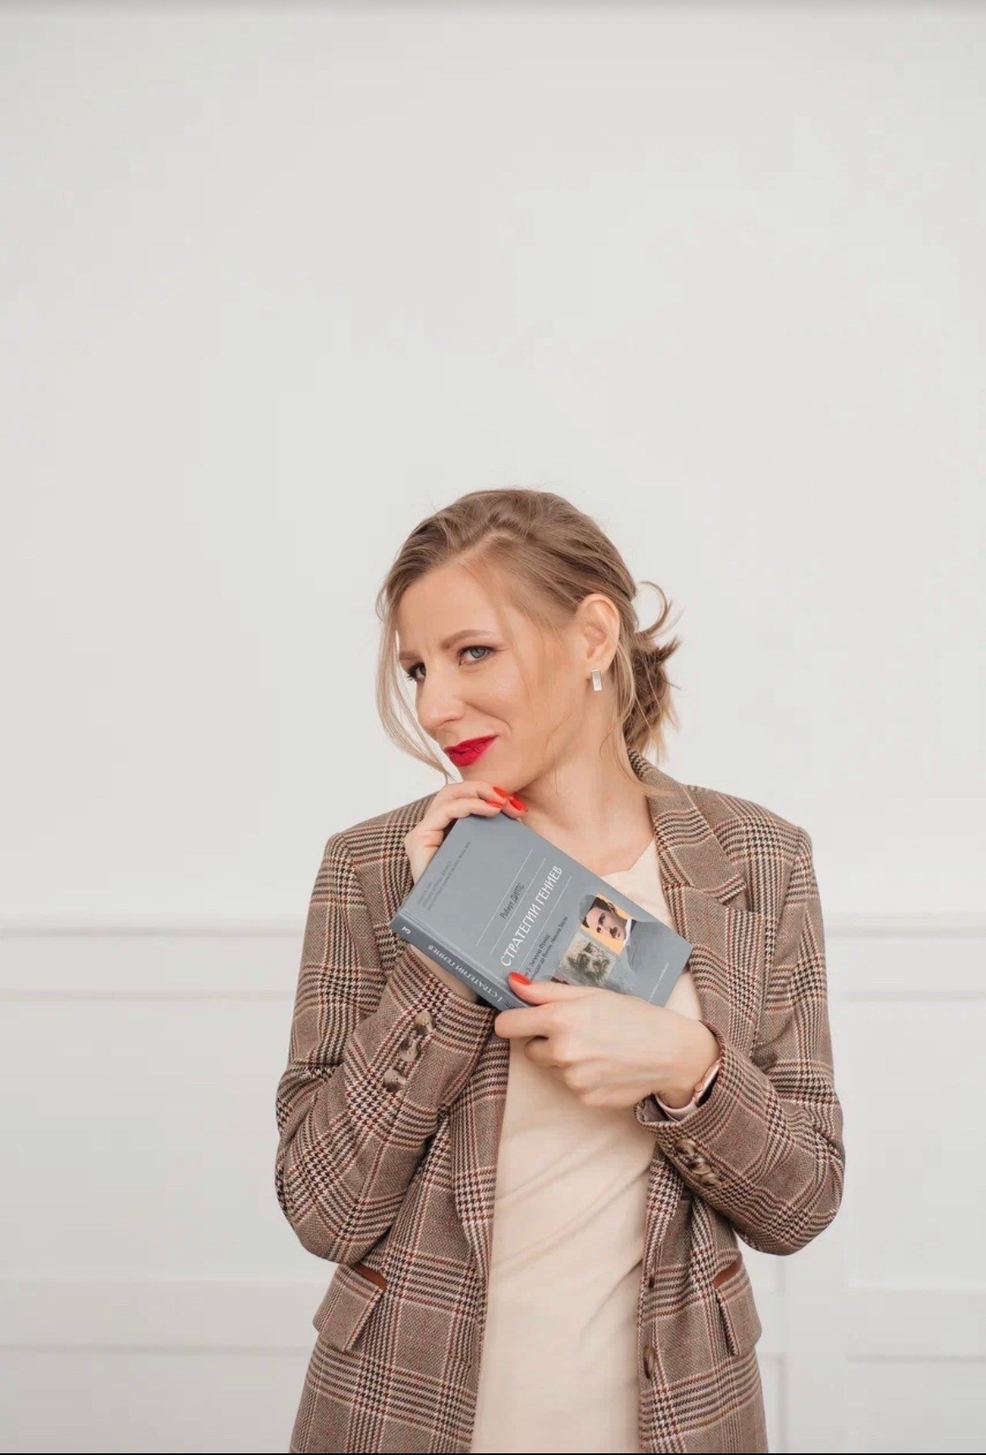
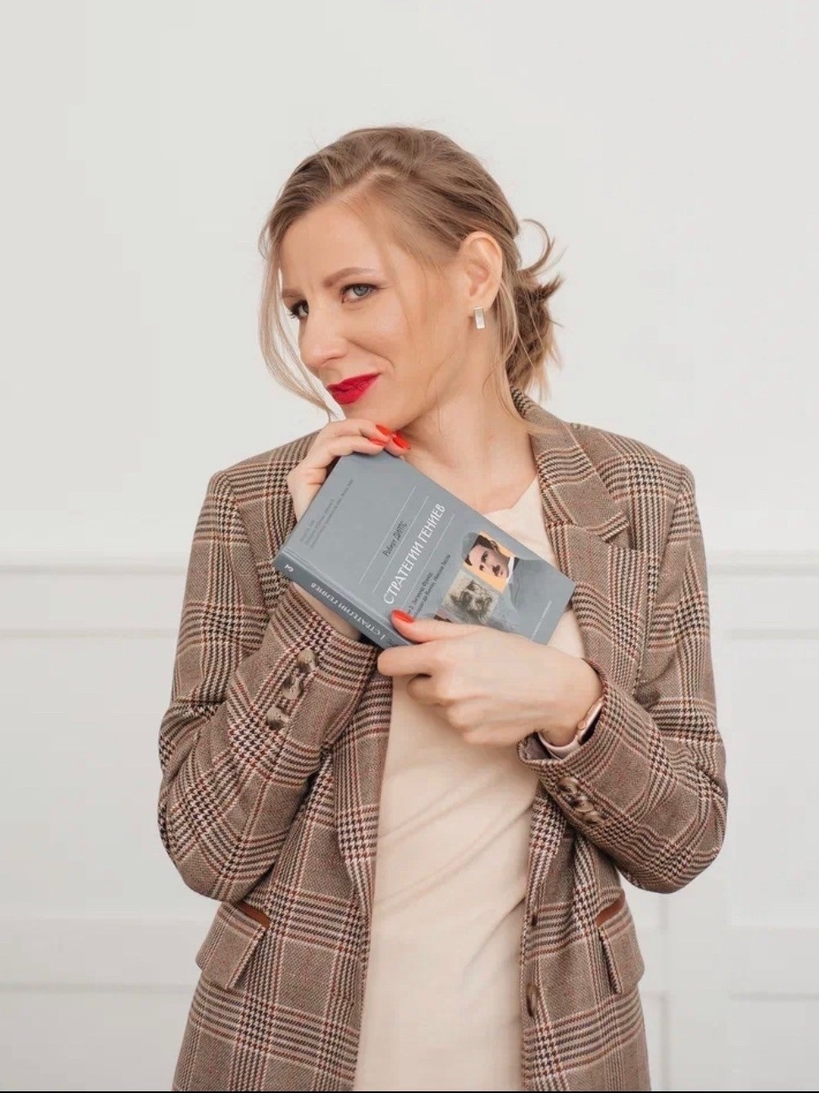
QA: badge inside frame, image sizes, post-build nbsp, hero ghost hidden on mobile, typography and content fixes

diff --git a/src/data/master.ts b/src/data/master.ts
@@ -16,7 +16,7 @@ export const master = {
   whatsapp: 'https://wa.me/79130886788',
   telegram: 'https://t.me/anna_metafora',
   primary: 'https://t.me/anna_metafora',
-  primaryLabel: 'Написать в Telegram',
+  primaryLabel: 'Написать в Telegram',
 } as const;
 
 // неразрывный пробел после коротких слов, чтобы они не висели в конце строки
@@ -35,41 +35,41 @@ function nbDeep<T>(v: T): T {
 
 export const audience = nbDeep([
   {
-    kind: 'Для себя',
+    kind: 'Для себя',
     title: 'Когда хаос, тупик и&nbsp;всё перепробовано',
     items: [
       'чувствуете хаос, запутанность, тупик',
-      'всё перепробовали, а ничего не помогает',
-      'хочется прорыва, особенно в бизнесе или деньгах',
+      'всё перепробовали, а ничего не помогает',
+      'хочется прорыва, особенно в бизнесе или деньгах',
       'хочется лучше понять себя',
     ],
   },
   {
-    kind: 'Для специалистов',
+    kind: 'Для специалистов',
     title: 'Психологам и&nbsp;тем, кто работает с&nbsp;людьми',
     items: [
       'быстро диагностировать корень запроса',
       'расширить инструменты работы',
       'лучше понимать глубинные процессы клиента',
-      'когда кажется, что работа с клиентом идёт по кругу',
+      'когда кажется, что работа с клиентом идёт по кругу',
     ],
   },
   {
-    kind: 'Для предпринимателей',
+    kind: 'Для предпринимателей',
     title: 'Мышление, деньги и&nbsp;клиенты',
     items: [
-      'развивать креативное мышление и находить нестандартные решения',
+      'развивать креативное мышление и находить нестандартные решения',
       'увидеть свои реальные финансовые стратегии',
       'клиентов стало меньше, хотя маркетинг уже пробовали',
-      'проверить бизнес-идеи без риска',
+      'проверить бизнес-идеи без риска',
     ],
   },
   {
-    kind: 'Для родителей',
+    kind: 'Для родителей',
     title: 'Понять внутренний мир ребёнка',
     items: [
       'лучше понимать внутренний мир своих детей',
-      'мягче и точнее взаимодействовать с ребёнком',
+      'мягче и точнее взаимодействовать с ребёнком',
     ],
   },
 ]);
@@ -78,80 +78,80 @@ export const method = nbDeep({
   points: [
     {
       title: 'Разговор держит в&nbsp;той же точке',
-      text: 'Когда мы просто разговариваем, активируется часть мозга, которая отвечает за анализ, контроль и логику. Она помогает объяснять и рационализировать, но часто не даёт пойти глубже. Поэтому можно годами говорить о проблеме и оставаться на месте.',
+      text: 'Когда мы просто разговариваем, активируется часть мозга, которая отвечает за анализ, контроль и логику. Она помогает объяснять и рационализировать, но часто не даёт пойти глубже. Поэтому можно годами говорить о проблеме и оставаться на месте.',
     },
     {
       title: 'Образы включают творчество',
-      text: 'Когда человек работает с образами, символами и метафорами, привычные шаблоны разрываются, а ассоциации выводят на неожиданные и неочевидные ранее решения.',
+      text: 'Когда человек работает с образами, символами и метафорами, привычные шаблоны разрываются, а ассоциации выводят на неожиданные и неочевидные ранее решения.',
     },
     {
       title: 'Диагностика и&nbsp;коррекция сразу',
-      text: 'Работа через метафору на песке открывает доступ к тому, что раньше было неосознанным. Мозг не сопротивляется, он показывает короткий путь.',
+      text: 'Работа через метафору на песке открывает доступ к тому, что раньше было неосознанным. Мозг не сопротивляется, он показывает короткий путь.',
     },
     {
       title: 'Один сеанс вместо месяцев',
-      text: 'За один сеанс песочной терапии можно увидеть то, что в разговоре не проявляется месяцами.',
+      text: 'За один сеанс песочной терапии можно увидеть то, что в разговоре не проявляется месяцами.',
     },
   ],
-  note: 'Это не эзотерика. Это особенности того, как работает наш&nbsp;мозг.',
+  note: 'Это не эзотерика. Это особенности того, как работает наш&nbsp;мозг.',
 });
 
 export const steps = nbDeep([
   {
     n: '01',
     title: 'Напишите',
-    text: 'В Telegram, ВКонтакте или WhatsApp. Коротко опишите, с чем хотите разобраться.',
+    text: 'В Telegram, ВКонтакте или WhatsApp. Коротко опишите, с чем хотите разобраться.',
   },
   {
     n: '02',
-    title: 'Композиция на песке',
-    text: 'Вы строите композицию из песка, а я провожу глубокий анализ ситуации: причин, следствий и того, что сейчас с вами происходит.',
+    title: 'Композиция на песке',
+    text: 'Вы строите композицию из песка, а я провожу глубокий анализ ситуации: причин, следствий и того, что сейчас с вами происходит.',
   },
   {
     n: '03',
     title: 'Решение находите вы',
-    text: 'Композиция показывает корень состояния, который вы не ожидали увидеть. Решение вы находите сами, я помогаю вопросами и заданиями.',
+    text: 'Композиция показывает корень состояния, который вы не ожидали увидеть. Решение вы находите сами, я помогаю вопросами и заданиями.',
   },
 ]);
 
 export const story = nbDeep({
   quote: '«Как ты родилась?»',
-  text: 'Это был последний вопрос, который я ожидала услышать, работая с песком. Мы можем не помнить самые ранние события своей жизни. Но это не значит, что их не помнит наше тело. Оно хранит гораздо больше, чем кажется.',
+  text: 'Это был последний вопрос, который я ожидала услышать, работая с песком. Мы можем не помнить самые ранние события своей жизни. Но это не значит, что их не помнит наше тело. Оно хранит гораздо больше, чем кажется.',
 });
 
 export const bioFacts = [
-  { value: '16 лет', label: 'в профессии' },
-  { value: '1000+', label: 'консультаций' },
+  { value: '16 лет', label: 'в профессии' },
+  { value: '1\u00a0000+', label: 'консультаций' },
   { value: 'РАНХиГС', label: 'старший преподаватель' },
 ];
 
 export const career = nbDeep([
-  { years: 'с 2023', text: 'Старший преподаватель, Алтайский филиал Президентской академии (РАНХиГС)' },
-  { years: 'с 2012', text: 'Руководитель и психолог учебно-психологического центра «Метафора»' },
+  { years: 'с 2023', text: 'Старший преподаватель, Алтайский филиал Президентской академии (РАНХиГС)' },
+  { years: 'с 2012', text: 'Руководитель и психолог учебно-психологического центра «Метафора»' },
   { years: '2010-2014', text: 'Психолог, «Практическая психология»' },
   { years: '2012', text: 'АлтГПУ, магистратура, кафедра психологии образования' },
-  { years: '2010', text: 'АлтГПА, Институт психологии и педагогики, педагогика и психология образования' },
+  { years: '2010', text: 'АлтГПА, Институт психологии и педагогики, педагогика и психология образования' },
 ]);
 
 export const services = nbDeep([
   {
     kind: 'Консультация',
     title: 'Индивидуальная консультация по&nbsp;песочной терапии',
-    duration: 'Барнаул или онлайн',
+    duration: 'Барнаул или онлайн',
     price: '5 000 ₽',
     priceNote: 'одна консультация',
-    pitch: 'Глубокий анализ вашей ситуации через композицию на песке. Подходит, когда хочется прорыва в жизни, бизнесе или деньгах.',
+    pitch: 'Глубокий анализ вашей ситуации через композицию на песке. Подходит, когда хочется прорыва в жизни, бизнесе или деньгах.',
     cta: 'Записаться',
     highlight: true,
   },
   {
     kind: 'Обучение',
     title: 'Песочная и&nbsp;телесно-ориентированная терапия, НЛП',
-    duration: 'курсы для специалистов',
-    price: 'По запросу',
-    priceNote: 'набор групп в сообщениях',
-    pitch: 'Программы для психологов, коучей, начинающих специалистов и всех, кто работает с людьми. Без лишней теории: практика, опыт и реальное погружение.',
-    cta: 'Узнать о курсе',
+    duration: 'курсы для специалистов',
+    price: 'По запросу',
+    priceNote: 'набор групп в сообщениях',
+    pitch: 'Программы для психологов, коучей, начинающих специалистов и всех, кто работает с людьми. Без лишней теории: практика, опыт и реальное погружение.',
+    cta: 'Узнать о курсе',
     highlight: false,
   },
   {
@@ -159,18 +159,18 @@ export const services = nbDeep([
     title: '«Денежный поток олигарха»',
     duration: 'очно, Барнаул',
     price: '4 000 ₽',
-    priceNote: 'участие в игре',
-    pitch: 'Финансовый тренажёр: недвижимость, акции, бизнесы, переговоры. Тестируете стратегии без риска и получаете обратную связь от бизнес-психолога в моменте.',
+    priceNote: 'участие в игре',
+    pitch: 'Финансовый тренажёр: недвижимость, акции, бизнесы, переговоры. Тестируете стратегии без риска и получаете обратную связь от бизнес-психолога в моменте.',
     cta: 'Забронировать место',
     highlight: false,
   },
   {
     kind: 'Практикумы',
     title: 'Онлайн-практикумы и&nbsp;мастер-классы',
-    duration: 'онлайн и очно',
-    price: 'от 1 000 ₽',
-    priceNote: 'бывают и бесплатные',
-    pitch: 'Метафорическое мышление и доход, восприятие количества клиентов, «как читать мысли по глазам» для переговоров и найма.',
+    duration: 'онлайн и очно',
+    price: 'от 1 000 ₽',
+    priceNote: 'бывают и бесплатные',
+    pitch: 'Метафорическое мышление и доход, восприятие количества клиентов, «как читать мысли по глазам» для переговоров и найма.',
     cta: 'Узнать расписание',
     highlight: false,
   },
@@ -179,23 +179,23 @@ export const services = nbDeep([
 export const faq = nbDeep([
   {
     q: 'Это эзотерика?',
-    a: 'Нет. Песочная терапия работает через образы, символы и метафоры. Это особенности того, как работает наш мозг: в песочнице вместо рационализации появляются метафорические аналогии, и становится видно то, что в разговоре не проявляется месяцами.',
+    a: 'Нет. Песочная терапия работает через образы, символы и метафоры. Это особенности того, как работает наш мозг: в песочнице вместо рационализации появляются метафорические аналогии, и становится видно то, что в разговоре не проявляется месяцами.',
   },
   {
     q: 'Сколько стоит консультация?',
-    a: 'Индивидуальная консультация по песочной терапии стоит 5 000 ₽. Участие в игре «Денежный поток олигарха» 4 000 ₽. Стоимость обучения уточняйте в сообщениях.',
+    a: 'Индивидуальная консультация по песочной терапии стоит 5 000 ₽. Участие в игре «Денежный поток олигарха» 4 000 ₽. Стоимость обучения уточняйте в сообщениях.',
   },
   {
-    q: 'Песочная терапия только для детей?',
-    a: 'Нет, метод работает с любым возрастом и запросом. Предприниматели используют его, чтобы находить нестандартные решения в бизнесе, мамы, чтобы лучше понимать своих детей, психологи, чтобы быстро диагностировать корень запроса.',
+    q: 'Песочная терапия только для детей?',
+    a: 'Нет, метод работает с любым возрастом и запросом. Предприниматели используют его, чтобы находить нестандартные решения в бизнесе, мамы, чтобы лучше понимать своих детей, психологи, чтобы быстро диагностировать корень запроса.',
   },
   {
-    q: 'Нужна ли подготовка для практикумов?',
-    a: 'Нет, специальная подготовка не нужна. Онлайн-практикумы проходят из дома, с практическим упражнением и возможностью задать вопросы.',
+    q: 'Нужна ли подготовка для практикумов?',
+    a: 'Нет, специальная подготовка не нужна. Онлайн-практикумы проходят из дома, с практическим упражнением и возможностью задать вопросы.',
   },
   {
     q: 'Как записаться?',
-    a: 'Написать в Telegram, ВКонтакте или WhatsApp, либо позвонить по телефону.',
+    a: 'Написать в Telegram, ВКонтакте или WhatsApp, либо позвонить по телефону.',
   },
 ]);
 
